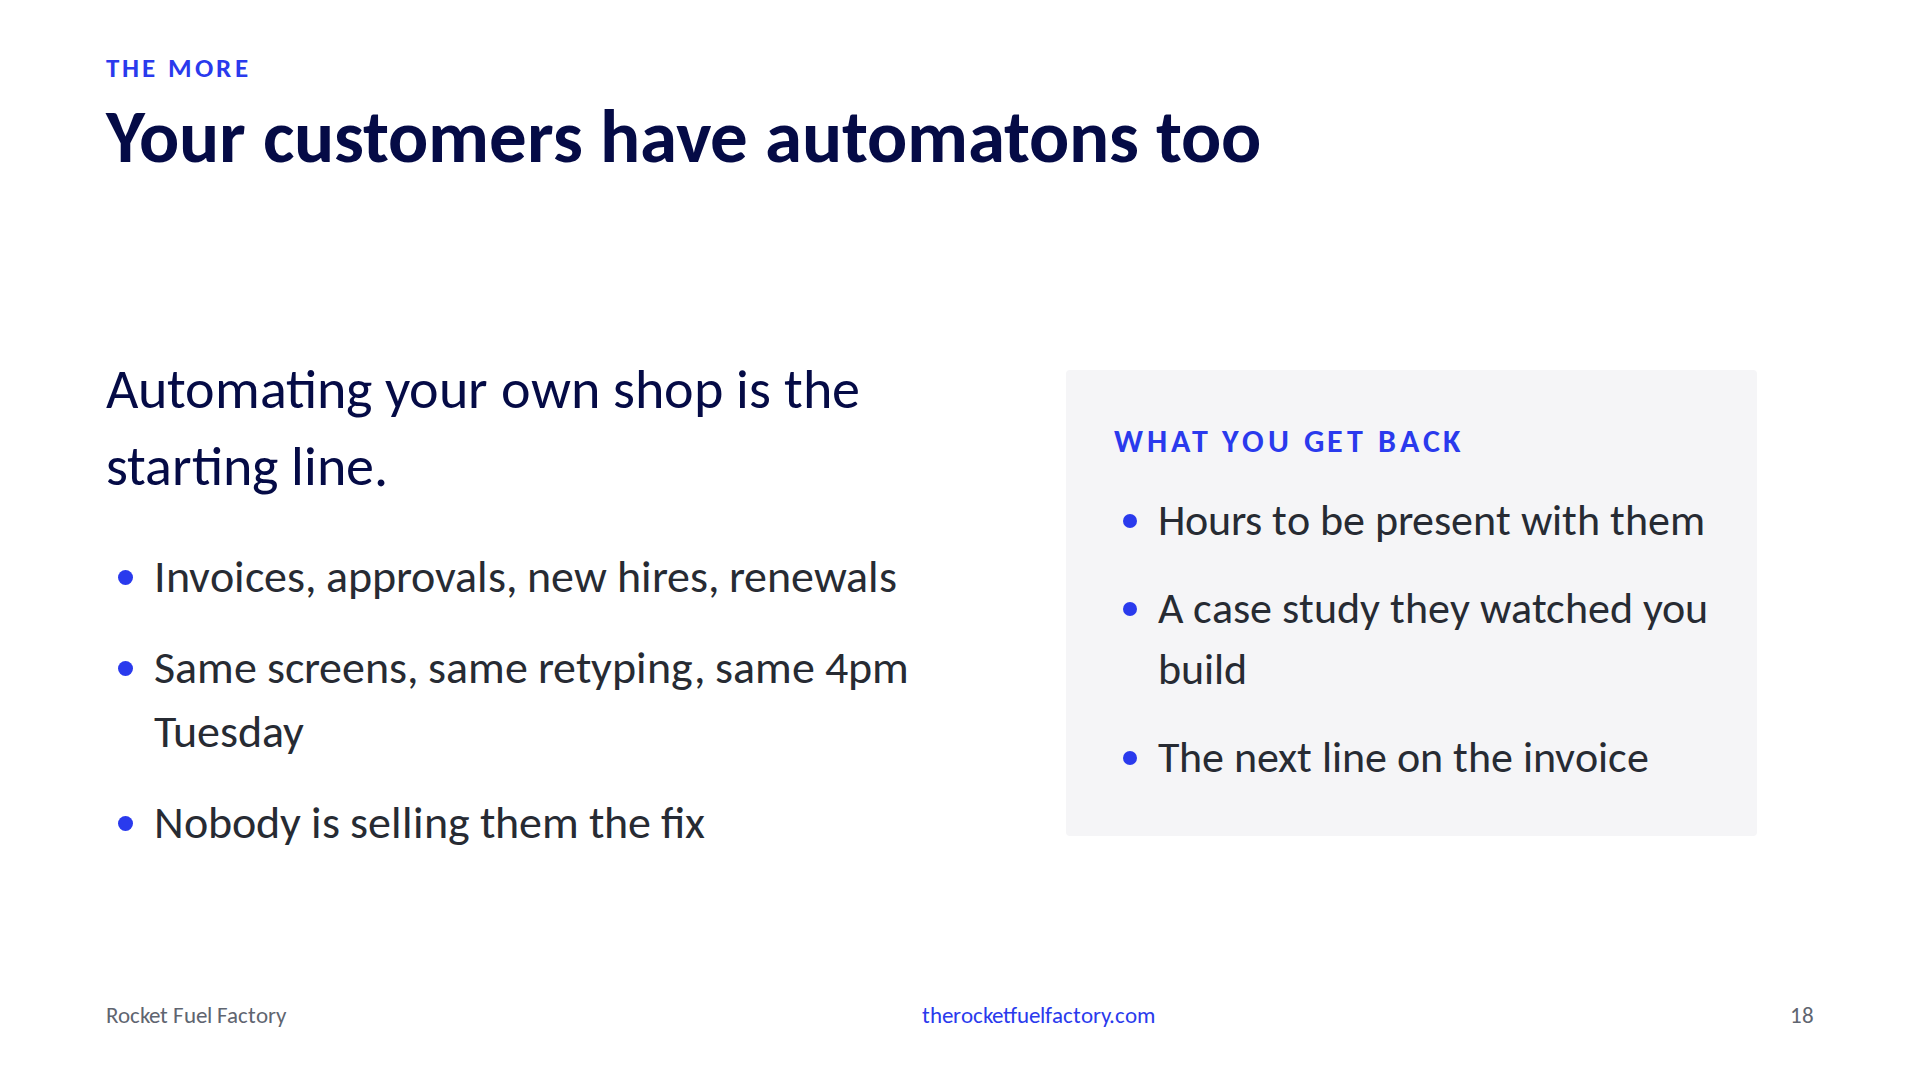
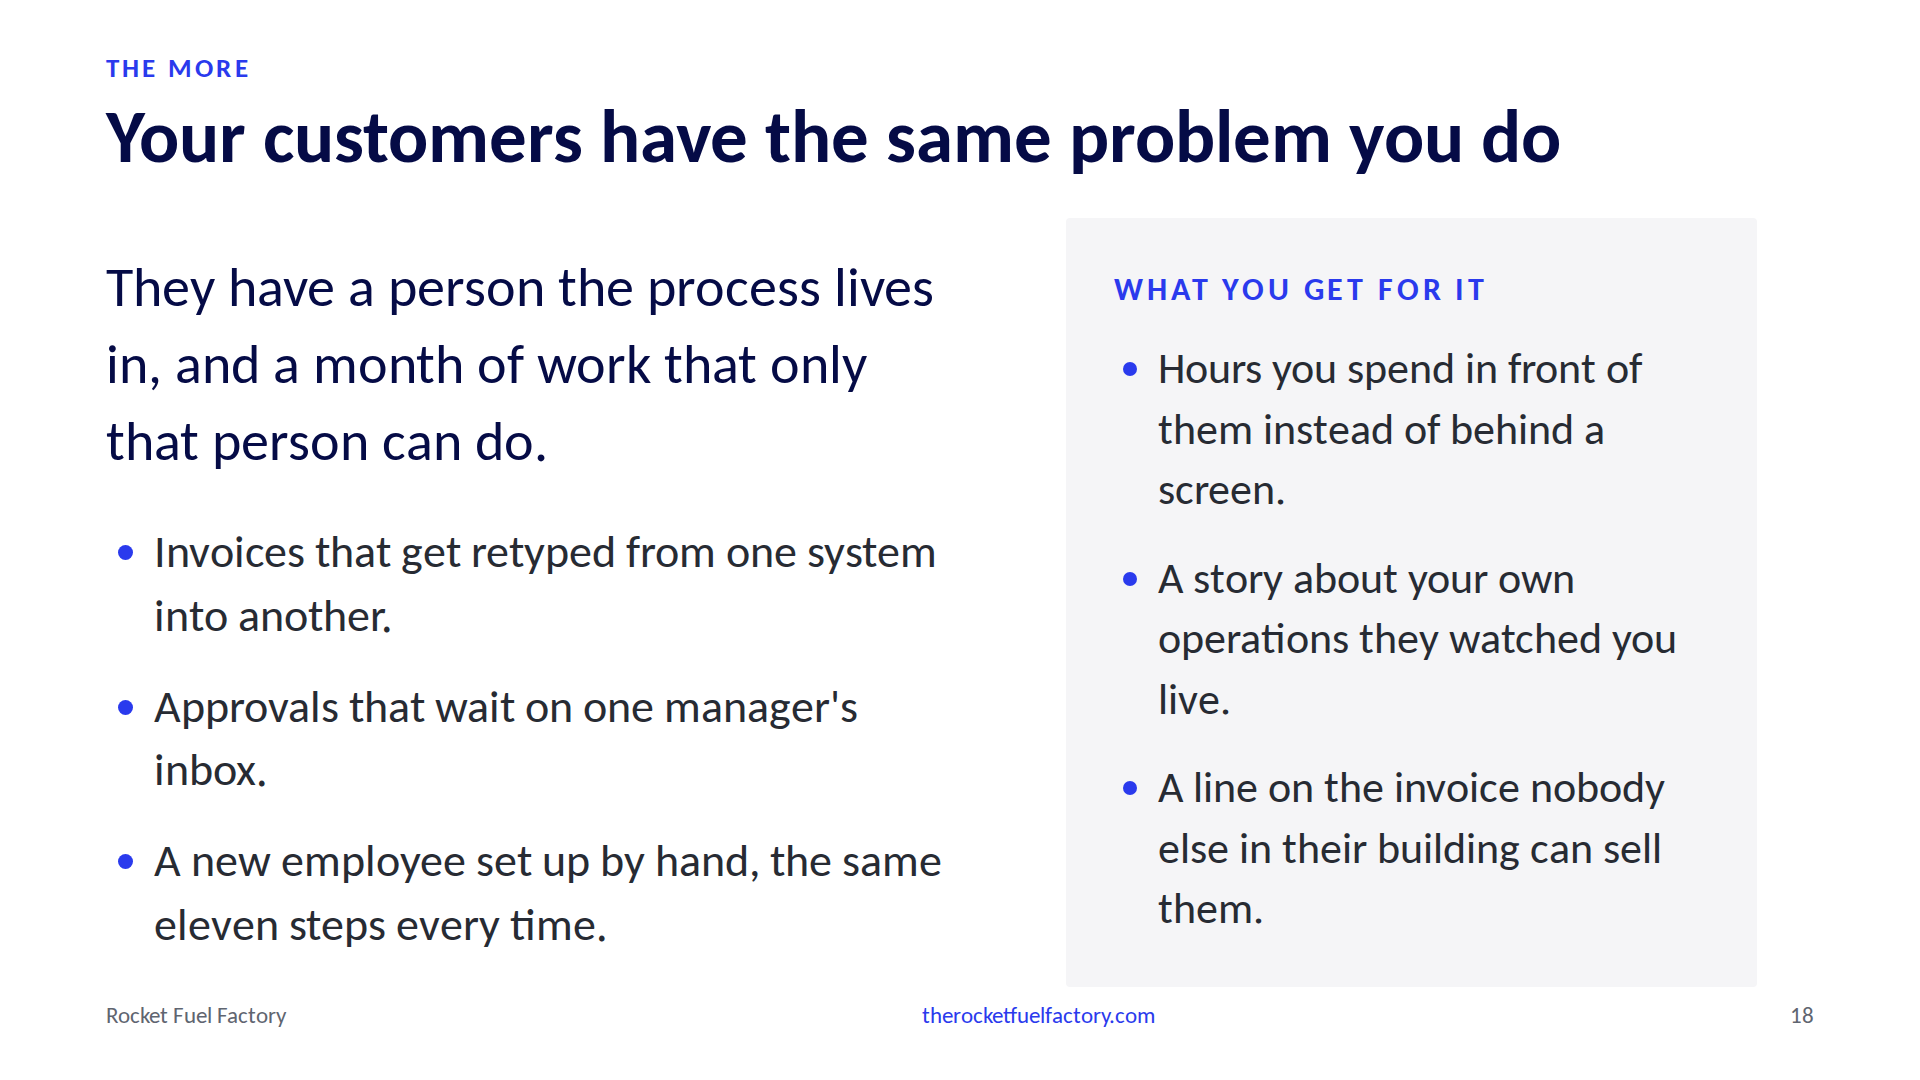
Slide 18: your customers have the same problem you do; note in spoken voice

diff --git a/src/data/notes.js b/src/data/notes.js
@@ -21,7 +21,7 @@ export const notes = {
   'deterministic-vs-probabilistic': 'Target 15:40. Two words, and then I will stop using jargon. Deterministic means the same input gives the same output, every time, forever. Probabilistic means it gives you a good answer, and a slightly different one each time you ask. The steps we usually call automation are deterministic. The steps we call AI are probabilistic. Neither is better. They are for different work, and a finished automation is usually built from both, which is the next slide. Here is how I split it. The deterministic steps get the work with an exact rule. If a ticket comes in from this client at this priority, do this. It does the same thing every single time, which means I can check it once, sign off on it, and let it run. And when it hits something the rule does not cover, it does not improvise. It errors, and I hear about it. The probabilistic step gets the work where a good guess is enough. Draft the email. Sort the inbox. Summarize the ticket. It does something a little different every run, which is fine for a draft and not fine for a decision, so someone reads what it produces every time. And when the brief has a gap, the gap does not come back as an error. It comes back inside the answer, as a guess or as a question, and you only find it by reading. That Q2 line in the first email was a gap in the brief showing up in the answer. If that sounds like a lot of checking, think about what you already run. A tech at 4pm on a Tuesday is a probabilistic system, and you do not ban the tech. You put a second pair of eyes on the work that mattered. Same answer here. Here is what that looks like when you wire it up.',
   'guardrail-sandwich': 'Target 17:40. So yes, you can use AI inside your operations. This is how I do it, and I call it the guardrail sandwich. The whole thing is one automation. The bread is the deterministic steps. The filling is the probabilistic step. And the way to think about it is communication, the same as with a person you are handing work to. Top slice is everything you tell it before it starts. Gather the facts from the systems that actually hold them, so it is not guessing at what the ticket said or what the client has. Validate that the request is complete and that we are allowed to act on it at all, and if either of those fails it stops right there and a person hears about it. Then attach the rules you wrote for this job. That is the step I see skipped most often. It is the brief from the demo, and it is the difference between a guess and a draft you would sign. The filling is the one thing it does. It makes the first pass. It drafts, it sorts, it summarizes, with the facts and the rules already in front of it. Bottom slice is checking whether it understood you. Check the result against those same rules, and if a rule cannot check it, a person does. Then log what happened and tell the person who owns it. The AI never touches the customer or the record on its own. It made a first pass in the middle of a conversation you wrote down on both sides. None of this works if the rules are still in somebody\'s head, which is why everything before this slide was about getting them out. If you saw me at Right of Boom, this is the same sandwich with the security taken out and the day to day put in. Here is what it costs.',
   'honest-limit': 'Target 20:10. So the machine made its pass. Now I have to find out whether it understood me, and that is the same thing I do with a person. I read the draft against what I asked for. If I wrote the rules down, that check is fast, because I am comparing the answer to a sentence I already have. If I did not, the check is me re-deciding the whole job, and then I have bought a subscription and kept the work. That is the part nobody puts in the demo, and it is the honest limit on all of this. The way I keep the check fast is to decide it first, and to ask for the answer in a shape something can test. A category. A yes or no. A number under 150. Then I log the run. What went in, what came out, who signed off. Look at the third row. The draft came back at 212 words, the rule said 150, so it never went anywhere. It sat there for Chris. Nobody had to read it to catch it. That log is not paperwork. It is the record of the conversation, and it is the only version of it anyone else can read. When a client asks me what the AI did with their data, I do not tell them it is fine. I read them the run. If you want the harder version of that question, the legal session at 3:15 has it. And once you can show a client that, you can stop talking about your own shop.',
-  'the-more': 'Target 21:40. SLOW. This is the title. Your own shop is the starting line. Your customers have the same automatons: invoices, approvals, renewals, same screens, same retyping. Nobody is selling them the fix. You just learned how. That is the more.',
+  'the-more': 'Target 21:40. SLOW. This is the more in the title. Everything so far was your own operations. Now look at your clients. They have a Mike too. Somebody in accounting retypes every invoice from the shipping system into the accounting system. Somebody waits three days for one manager to approve a thing from an inbox. Somebody sets up every new employee by hand, the same eleven steps, and knows them by heart. Nobody in that building has written those steps down, and nobody they know can do the thing you just watched for twenty minutes: sit with the person, get the rule out of their head, and put a machine behind it. You can. And here is what you get for it. The hours you got back from your own automation, spent in front of them instead of behind a screen. A story about your own operations that they watched happen, which is a better case study than anything in a brochure. And a line on the invoice that nobody else in their building is going to sell them. That is the more. Not fewer people. More of the work only you can do for them.',
   'one-action': 'Target 23:40. End on the action, not a thank you. Read it as instructions, slowly. The employee you would hate to lose is the person the process lives in; that is why you would hate to lose them. The thing they dread once a month is the automaton work. Writing it down is Aharon: the process does not exist until it is said out loud. The two questions are the whole talk: could anyone else follow it is delegation, could it be automated is the more. Then hand off: Erik and Atul are about to talk about the version of this where the person the process lives in is you.',
   presenter: 'Target 24:40. One breath. Name, company, one sentence. About five minutes of buffer before the hard stop; spend it on the SLOW slides.',
 }

diff --git a/src/components/slides/019-TheMore.jsx b/src/components/slides/019-TheMore.jsx
@@ -1,24 +1,29 @@
 import TwoColumnSlide from '../layouts/TwoColumnSlide'
 
-// The growth beat. Full slide, not a card item. This is the "more" in the title.
+// The growth beat, the customer audience of the three. The same communication
+// problem lives inside every client, and the owner who just learned to write
+// rules down is the one person they know who can do it for them.
 export default function TheMore({ slideNumber }) {
   return (
     <TwoColumnSlide
       eyebrow="The more"
-      title="Your customers have automatons too"
+      title="Your customers have the same problem you do"
       accent="blue"
       slideNumber={slideNumber}
-      paragraph="Automating your own shop is the starting line."
+      paragraphSize={40}
+      pointSize={34}
+      cardSize={34}
+      paragraph="They have a person the process lives in, and a month of work that only that person can do."
       points={[
-        'Invoices, approvals, new hires, renewals',
-        'Same screens, same retyping, same 4pm Tuesday',
-        'Nobody is selling them the fix',
+        'Invoices that get retyped from one system into another.',
+        'Approvals that wait on one manager\'s inbox.',
+        'A new employee set up by hand, the same eleven steps every time.',
       ]}
-      cardTitle="What you get back"
+      cardTitle="What you get for it"
       cardItems={[
-        'Hours to be present with them',
-        'A case study they watched you build',
-        'The next line on the invoice',
+        'Hours you spend in front of them instead of behind a screen.',
+        'A story about your own operations they watched you live.',
+        'A line on the invoice nobody else in their building can sell them.',
       ]}
     />
   )

diff --git a/docs/OUTLINE.md b/docs/OUTLINE.md
@@ -54,7 +54,7 @@ Closing line: If you can't write the rule, you can't hire your way out of it eit
 15. What I hand to each kind of step (comparison, gold, level pairs, headers Deterministic (cog) and Probabilistic (sparkles); note defines both words and says a finished automation is built from both). Deterministic: work with an exact rule, if this then that; same thing every time so you check it once; a gap in the rule shows up as an error. AI: work where a good guess is enough, drafting, sorting, summarizing; a little different every run so someone checks every time; a gap in the brief shows up in the answer. Footer, one sentence: you already run a probabilistic system: a tech at 4pm on a Tuesday. First person title so the split is Tim's rule, not a vendor's law (Opus, 14 Sep).
 16. The Guardrail Sandwich (gold). Drawn as a sandwich: grey bread above and below (Deterministic, cog), pale gold filling with a gold edge (Probabilistic, sparkles). Tim: the whole thing is one automation with a mix of the two, so the bands are not labelled automation and AI. Six generic steps, nothing names the email: gather the facts from the systems that hold them; validate complete and allowed; attach the rules you wrote for this job; (AI) make the first pass, draft, sort, or summarize; check against those same rules or hand to a person; log and tell the owner. Title is the permission: you can put AI in the middle of a process you wrote. Footer is the condition as communication: tell it everything in writing before it starts, then check whether it understood. The unguarded line is spoken. Note walks the slices, names step 3 as the one people skip and the brief from the demo, one-line Right of Boom callback, hands to 17 with "here is what it costs". Inspired by the Right of Boom 2026 stack, not copied.
 17. The check (gold). Pays off 16's condition: the check is how you know it understood you. Lead: you check the answer against the same rules you wrote for the step. Three bullets: decide what good looks like before you build the step; ask for a shape a rule can test (category, yes or no, number); log what went in, what came out, who approved it. Right side is the log drawn as an artifact, three runs from the demo morning: the outage email passed and Alex sent it, a printer ticket categorized automatically, a billing draft over 150 words held for Chris. Closing line: when a client asks what the AI did with their data, you read them the run. Cost honesty (subscription plus headcount) and the 3:15 legal pointer are spoken, not on the slide. Opus rethink 14 Sep: a caveat beat between permission (16) and payoff (18) was the wrong shape.
-18. The more (two-column, blue). SLOW. Your customers have automatons too: invoices, approvals, new hires, renewals. Nobody is selling them the fix. You get hours to be present, a case study they watched you build, the next line on the invoice.
+18. The more (two-column, blue). SLOW. Title: your customers have the same problem you do. Lead: they have a person the process lives in, and a month of work only that person can do. Bullets: invoices retyped from one system into another; approvals waiting on one manager's inbox; a new employee set up by hand, the same eleven steps every time. Card, what you get for it: hours in front of them instead of behind a screen; a story about your own operations they watched you live; a line on the invoice nobody else in their building can sell them. The word automaton is gone from the deck (it was only in the cut opener); the title now says the problem plainly. Note: they have a Mike too; that is the more, not fewer people, more of the work only you can do for them.
 19. One action (closing). Tim's words: sit with one employee you would hate to lose. Ask what they do at least once a month that they dread. Work out the unwritten process behind it and write it down. Then two questions: could anyone else follow this, could some or all of it be automated. Say "this month" aloud. Hand to Erik and Atul: the version where the person the process lives in is you. No Table 3 reference; speakers were never asked to brief the tables.
 20. Presenter.
 
